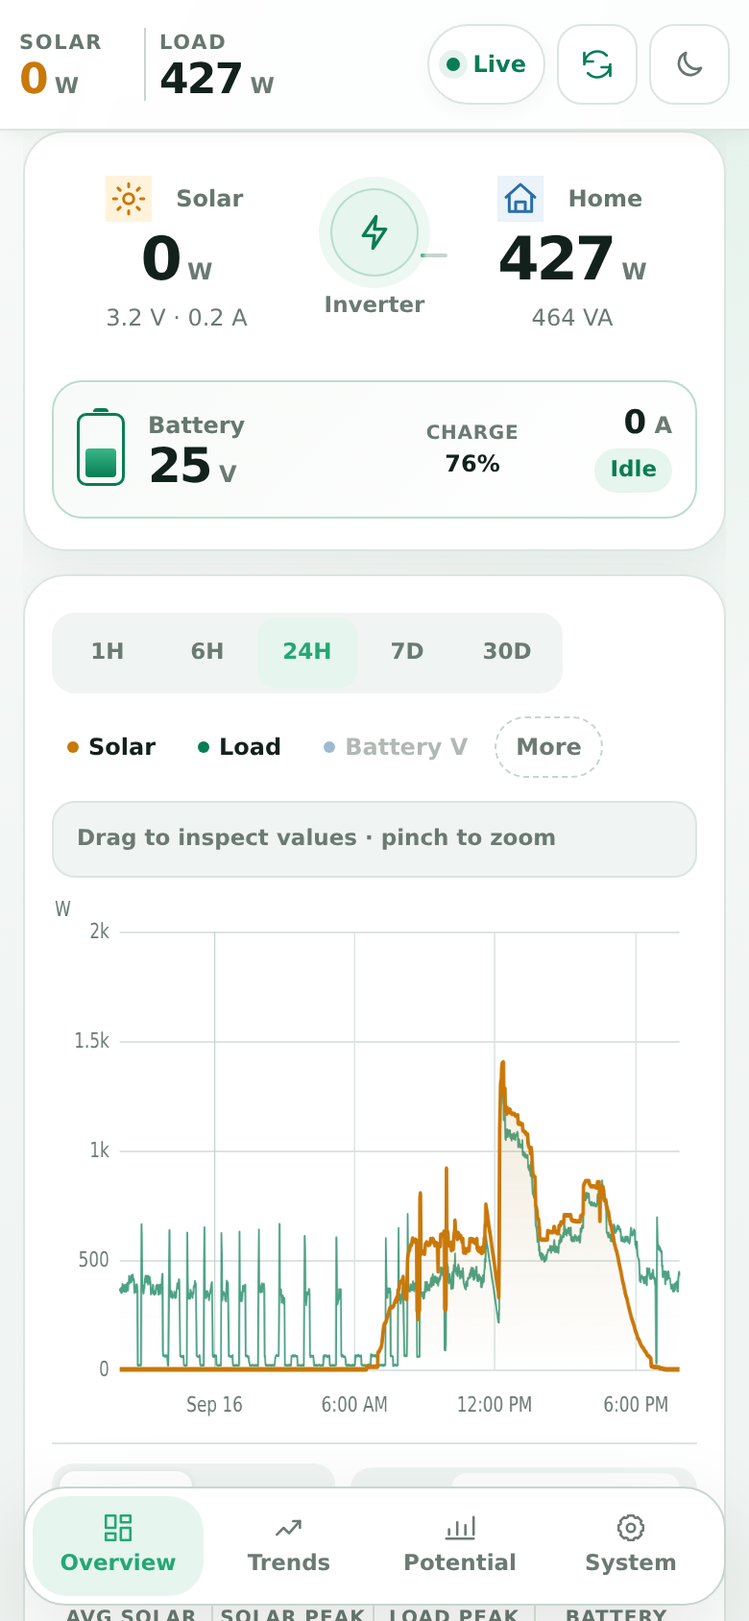
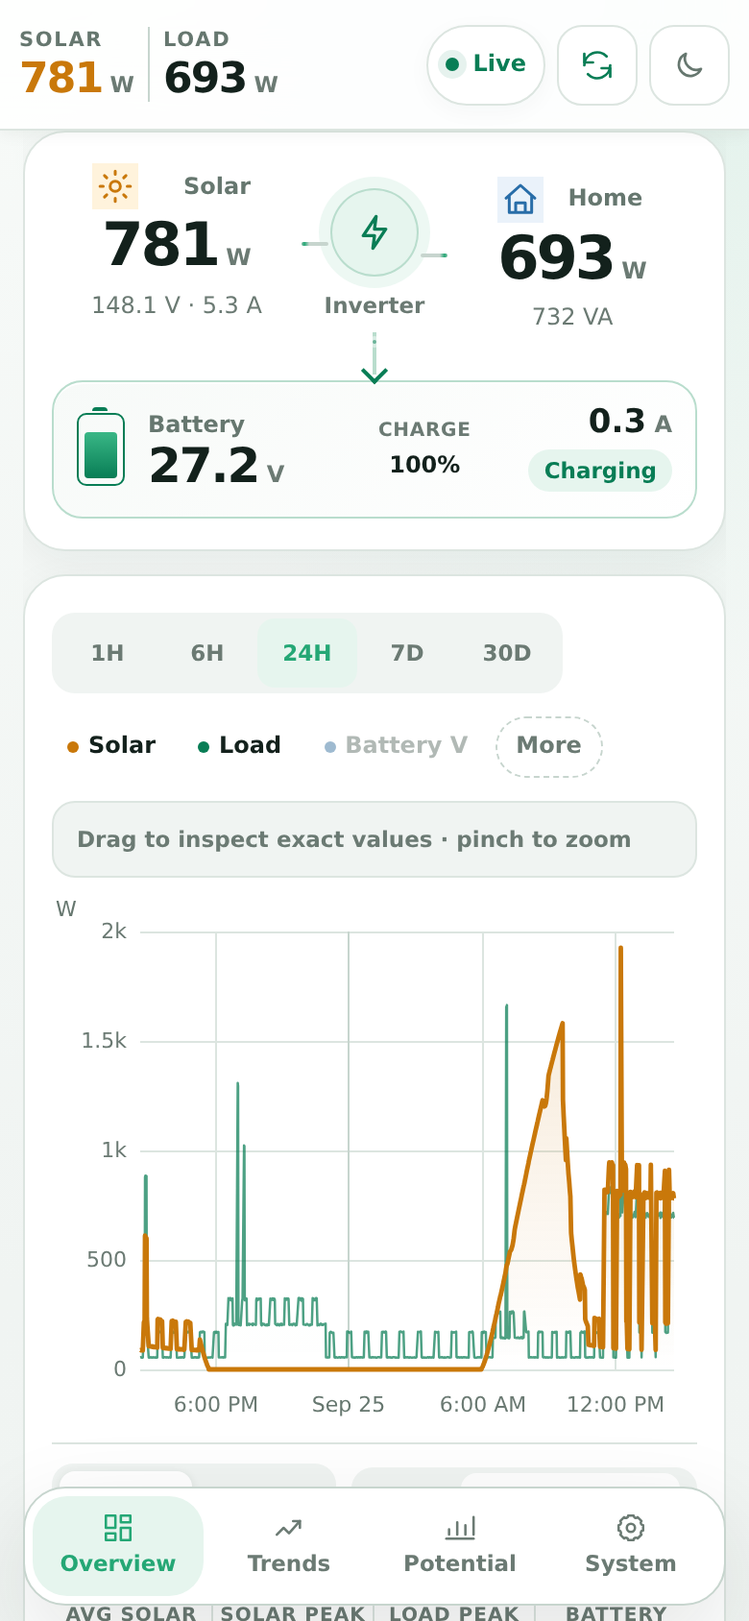
Lead the README with a demo anyone can run
A reader arriving from GitHub could look at screenshots of one house and
read setup steps for hardware they do not have. The README now opens with
three commands that run the whole application against the simulator, and
the screenshots come from that same demo (said so beneath them), rendered
by tools/screenshot.py so they can be retaken after any UI change.

Also brought up to date: history as energy per day beyond 24 hours, the
serial link read from the config file, a named config file being
required, where the setup token is found, restarting after an update,
an "Engineering notes" section pointing reviewers at the choices worth
finding, the endpoint tables folded away, and a Development section with
the lint and screenshot commands CI and contributors use. The CI badge
and clone URL carry OWNER/REPO until the repository has its name.

diff --git a/README.md b/README.md
@@ -1,107 +1,139 @@
 # SUMRY HGX Solar Monitor
 
-A local-first monitor for a SUMRY HGX 4 kW 24 V inverter, running on a Raspberry Pi with no cloud account and no build step. It speaks a reverse-engineered serial protocol, tracks battery health by counting charge, and learns the array's solar potential from its own output.
+[![CI](https://github.com/OWNER/REPO/actions/workflows/ci.yml/badge.svg)](https://github.com/OWNER/REPO/actions/workflows/ci.yml)
+![Python 3.11+](https://img.shields.io/badge/python-3.11%2B-3776ab)
+![No build step](https://img.shields.io/badge/front%20end-no%20build%20step-087d55)
+[![License: MIT](https://img.shields.io/badge/license-MIT-lightgrey)](LICENSE)
+
+A local-first monitor for a SUMRY HGX 4 kW 24 V off-grid inverter, running on a Raspberry Pi. It speaks the inverter's reverse-engineered RS-232 protocol, keeps every reading in SQLite, tracks the battery bank by counting charge, and learns the solar array's real potential from its own output. No cloud account, no build step, three runtime dependencies.
 
 <p>
-  <img src="docs/screenshots/dashboard-phone.png" alt="Dashboard on a phone" width="300">
-  <img src="docs/screenshots/estimate-desktop.png" alt="Solar potential page on a desktop" width="620">
+  <img src="docs/screenshots/dashboard-phone.png" alt="The dashboard on a phone: live power flow and the last 24 hours" width="300">
+  <img src="docs/screenshots/dashboard-desktop-dark.png" alt="The dashboard on a desktop in the dark scheme" width="600">
 </p>
+<p>
+  <img src="docs/screenshots/estimate-desktop.png" alt="The solar potential page, showing midday output held back by a full battery" width="600">
+</p>
+
+*Screenshots are of the built-in simulator (`run.py --demo`), so they show made-up data rather than a real installation.*
+
+## Try it without the hardware
+
+```sh
+git clone https://github.com/OWNER/REPO.git solar-monitor && cd solar-monitor
+python3 -m venv .venv && .venv/bin/pip install -r requirements.txt
+.venv/bin/python run.py --demo
+```
+
+Then open <http://127.0.0.1:5000>. The admin portal is at `/admin`, login `demo` / `demo-password`.
+
+`--demo` runs the whole application against a simulated inverter with a week of generated history. The simulation sits below the serial transport, not beside it: `sim://` is a pyserial port, so the collector sends the same allow-listed queries and decodes the same CRC-checked frames it would from the real inverter, and a configuration written from the admin portal must pass the same write gate before the simulated charger follows it. The model behind it is physical rather than recorded: sun position and clear-sky irradiance for the site, weather seeded per day, a household routine, and a 24 V lead-acid bank with a three-stage charger that curtails the panels once it is full.
 
 ## What it does
 
-- **Live power flow.** PV, battery, load and utility every 30 seconds, plus the inverter's output stage, bus voltage, temperatures and fans.
-- **History charts.** One hour to thirty days on a canvas chart. The API caps a response at a configurable point count, and the chart thins rows to its own pixel width keeping every column's extremes, so the drawn peaks are the real peaks and agree with the summary tiles.
-- **Battery bank health.** State of charge by counting charge, re-anchored at full (plateau held at a trickle after a recent absorption) and at rest (C/50 with no charge current). Each full-to-rest stretch measures the bank's effective capacity, which replaces the nameplate. Pre-dawn voltage, absorption time and tail current are shown per day as recovery gauges.
-- **Time to the low-voltage cutoff.** Hours left at the recent draw, down to the inverter's configured cutoff rather than to empty, with a warning when no utility is there to fall back on.
-- **Solar potential.** Sun position for the site, clear-sky irradiance, Open-Meteo cloud cover, and transposition onto one or two roof faces. The level is learned per band of sun elevation from the array's own unconstrained output. The page shows the shortfall against what was captured and the losses a rewiring would recover.
-- **Utility bypass detection.** The frame carries no utility current, so mains use is derived from the transfer relay (the inverter's own output collapses while the load stays) and from the power balance.
-- **Admin portal.** Password plus optional PIN. Serial diagnostics, retention, runtime settings, estimator inputs, audit log, exports, and Raspberry Pi controls through a scoped sudo helper.
-- **Gated inverter writes.** Off by default. A write is the inverter's own configuration block sent back with only allow-listed fields changed, then read back. Nothing is reported as applied on the strength of having been sent.
-- **Change proposals.** `python -m solar_monitor.propose` queues an intent without touching the port. It is released by an admin, or by a policy that can only narrow what the protocol already allows.
+- **Live power flow.** PV, battery, load and utility every 30 seconds, with the inverter's output stage, bus voltage, temperatures and fans.
+- **History.** One hour to a day as a canvas chart that you can read, pan and zoom; a week or a month as energy per day. Thinning keeps every column's extremes, so the drawn peaks are the real peaks and agree with the summary tiles.
+- **Battery bank health.** State of charge by counting charge, re-anchored when the bank is full (a plateau held at a trickle after a real absorption) and when it rests (under C/50 with no charge current). Each full-to-rest stretch measures the bank's effective capacity, which replaces the nameplate. Pre-dawn voltage, absorption time and tail current are tracked per day as recovery gauges.
+- **Time to the low-voltage cutoff.** Hours left at the recent draw, down to the inverter's configured cutoff rather than to empty, with a warning when there is no utility to fall back on.
+- **Solar potential.** Sun position for the site, clear-sky irradiance, Open-Meteo cloud cover and transposition onto one or two roof faces. The level is learned per band of sun elevation from the array's own unconstrained output, so the page can show how much a full battery made the inverter leave on the roof, and what rewiring would recover.
+- **Utility detection.** The frame carries no trustworthy utility current, so mains use is derived from the transfer relay (the inverter's own output collapses while the load stays) and from the power balance.
+- **Admin portal.** Password plus an optional PIN. Serial diagnostics, retention, estimator inputs, an audit log, exports, and Raspberry Pi controls through a scoped sudo helper.
+- **Gated inverter writes.** Off by default. A write is the inverter's own configuration block sent back with only allow-listed fields changed, then read back; nothing is reported as applied on the strength of having been sent.
+- **Change proposals.** `python -m solar_monitor.propose` queues an intent without touching the port. An admin releases it, or a standing policy that can only narrow what the protocol already allows.
 
-## Architecture
+## How it works
 
 ```mermaid
 flowchart LR
   INV[SUMRY HGX<br>RS-232 on RJ45] <-->|9600 8N1| SER[serial_io<br>read allow-list<br>write gate]
-  SER <--> COL[Collector thread<br>polls every 30 s]
+  SIM[simulator<br>sim:// port] -.->|--demo| SER
+  SER <--> COL[collector thread<br>polls every 30 s]
   COL --> DB[(SQLite<br>raw frames, samples,<br>config snapshots, audit)]
-  DB --> API[Flask API]
+  DB --> API[Flask API<br>served by waitress]
   WX[Open-Meteo] --> API
-  API --> UI[Vanilla JS pages<br>canvas charts, no build step]
+  API --> UI[plain HTML, CSS and JS<br>canvas charts, no build step]
 ```
 
-A collector thread owns the serial port. Every cycle it sends the status query, stores the raw exchange, and stores the decoded sample. Every tenth cycle it reads the configuration block and stores a snapshot. Approved change requests are applied between polls by the same thread, so nothing else ever opens the port.
+One collector thread owns the serial port. Every cycle it sends the status query, stores the raw exchange and the decoded sample; every tenth cycle it also reads and stores the configuration block. Approved configuration changes are applied between polls by that same thread, and the admin portal's diagnostics wait on its lock, so nothing ever shares the line with a poll.
 
-Flask serves the JSON API and three pages: the dashboard, the solar potential page, and the admin portal. The pages are plain HTML, CSS and JavaScript loaded with `<script>` tags. Charts are drawn on canvas by `chart-core.js`, which both charting pages share.
+The protocol layer (`solar_monitor/protocols/sumry_8851.py`) validates every frame by its trailing CRC16/MODBUS checksum, decodes the 158-byte status frame and the 104-byte configuration frame through field tables, and exposes exactly two read queries. `serial_io.py` refuses any outbound frame that is not one of them, and sends writes through a separate gate.
 
-The protocol layer (`solar_monitor/protocols/sumry_8851.py`) validates every frame by its trailing CRC16/MODBUS checksum, decodes the 158-byte status frame and the 104-byte configuration frame, and exposes exactly two read queries. `serial_io.py` refuses any outbound frame that is not one of them, and routes writes through a separate gate that only permits the inverter's own last reply with allow-listed bytes changed.
+Flask serves a JSON API and three pages: the dashboard, the solar potential page and the admin portal. The pages are plain HTML, CSS and JavaScript loaded with `<script>` tags; `chart-core.js` is the one charting implementation both chart pages share. Asset URLs carry the file's modification time, so an update never pairs a new page with a stale cached script.
 
 ## Safety model
 
-Polling is read-only. Writes are opt-in, and a write must pass three gates before it reaches the port:
+Polling is read-only. Writes are opt-in, and every write passes three gates before it reaches the port:
 
-1. **Policy.** The admin writes switch defaults to off. A proposal from tooling is applied without a person only when every field it touches is inside the auto-apply policy, which is off and empty by default.
-2. **Writable-field table.** Each field has a byte offset, a scale and the range of the inverter's own menu. Anything outside the table, or outside its range, is refused before a frame is built.
-3. **Frame assertion.** `assert_write_frame` compares the outbound frame to the reply it was built from and rejects any byte that differs outside the writable masks, any wrong length or command, and any bad checksum.
+1. **Policy.** The writes switch defaults to off. A proposal from tooling is applied without a person only when every field it touches is inside the auto-apply policy, which is off and empty by default.
+2. **Writable-field table.** Each field has a byte offset, a scale and the range of the inverter's own menu. Anything outside the table or its range is refused before a frame is built, and a quantity never accepts a switch value.
+3. **Frame assertion.** `assert_write_frame` compares the outbound frame with the reply it was built from and rejects any byte that differs outside the writable masks, any wrong length or command, and any bad checksum.
 
-Writes are whole-block rewrites because the inverter has no per-register write. Command `0x0010` takes the entire 94-byte configuration block, so the safest possible frame is the block the inverter just sent, re-checksummed, with the requested bytes changed. After the write the collector reads the block again and reports each requested value as verified or mismatched. Every write, failure and switch flip is audited.
+Writes are whole-block rewrites because the inverter has no per-register write: command `0x0010` takes the entire 94-byte configuration block, so the safest possible frame is the block the inverter just sent, re-checksummed, with the requested bytes changed. The collector reads the block again afterwards and reports each requested value as verified or mismatched. Every write, failure and switch flip is audited.
 
-## Setup
+## Engineering notes
 
-- An RJ45 connector here is **not Ethernet**. Do not plug the inverter COMM port into the Pi's Ethernet port or a network switch.
-- Verify the inverter's RJ45 RS-232 pinout and signal levels before connecting. Use a true USB-to-RS232 adapter (not a TTL UART), cross TX and RX as required, and connect signal ground. Leave unused voltage pins unconnected.
-- Keep the inverter disconnected from mains and PV while assembling or changing the breakout wiring, following its manual and normal electrical-safety practice.
+Some choices a reviewer may want to find quickly:
+
+- **The register map is treated as a claim, not a fact.** Three labels in the community map turned out to be wrong for this firmware, and each was disproven against data: offset 76 read 0.00 across 4,489 frames while mains carried the house; the "battery type" bits decoded User-defined while the front panel read AGM; register 82 held 4 where the map promised a boolean. [docs/decisions.md](docs/decisions.md) records each rule the code follows and the evidence behind it, including a full front-panel dump that the decoder matches field for field.
+- **Retention is decided by a flag, not by searching prose.** Raw frames used to be classified by substrings of their decode notes. Every good frame's note contained "fault" or "not decoded", so no routine frame was ever pruned, while the raw frames of all six configuration writes were. `tests/test_retention.py` uses the decoder's real notes so that cannot pass again.
+- **The simulator is a pyserial URL handler** (`solar_monitor/serial_handlers/protocol_sim.py`). The tests run the real collector, transport and write path against it, and it encodes frames through the decoder's own layout table, so the two cannot drift apart.
+- **No bundler, and static checks stand in for a browser.** The Pi has no JavaScript engine, so the suite checks that every template supplies the DOM ids its script needs, that scripts balance their brackets and load in order, and, when Node.js is present, parses them with V8 and runs the charting unit tests. `tools/screenshot.py` drives headless Chromium over the DevTools protocol (standard library only) to render every page and report page errors.
+
+## Install on a Raspberry Pi
+
+Wiring first:
+
+- The inverter's RJ45 COMM port is **not Ethernet**. Do not plug it into the Pi's Ethernet port or a network switch.
+- Verify the port's RS-232 pinout and levels before connecting. Use a true USB-to-RS232 adapter (not a TTL UART), cross TX and RX as required, connect signal ground, and leave unused pins unconnected.
+- Keep the inverter disconnected from mains and PV while assembling or changing the wiring, following its manual.
+
+Then:
 
 ```sh
-sudo apt update
-sudo apt install -y python3-venv avahi-daemon nginx
-python3 -m venv .venv
-.venv/bin/pip install -r requirements.txt
-cp config.example.toml config.toml
-sudo usermod -aG dialout "$USER"   # then log out and in
+sudo apt update && sudo apt install -y python3-venv avahi-daemon nginx
+python3 -m venv .venv && .venv/bin/pip install -r requirements.txt
+cp config.example.toml config.toml        # then edit it
+sudo usermod -aG dialout "$USER"           # then log out and in
 ```
 
-Before running the collector, confirm the wiring with the diagnostic tool. `--listen-only` transmits nothing; without it the tool sends only the two allow-listed read queries.
+Confirm the wiring before running the collector. `--listen-only` transmits nothing; without it the tool sends only the two allow-listed read queries.
 
 ```sh
 .venv/bin/python diagnostic.py --listen-only --timeout 3
 .venv/bin/python diagnostic.py --json-log captures/hgx.jsonl
 ```
 
-For a no-port URL, set the hostname to `solar-monitor`, enable Avahi, and install `deploy/nginx-solar-monitor.conf` as the default nginx site (its header has the commands). `deploy/solar-monitor.service` assumes `/opt/solar-monitor`, a `solar-monitor` service account and `/var/lib/solar-monitor` for the database; adjust the paths for your installation.
-
-## Configuration
-
-`config.toml` is untracked. Copy `config.example.toml` and edit it.
-
-| Table | Keys |
-| --- | --- |
-| `[serial]` | `port` (`"auto"` picks the first USB adapter), `baudrate`, `timeout_seconds`, `poll_seconds`, `protocol` |
-| `[web]` | `host`, `port` |
-| `[storage]` | `database` (SQLite path; its directory also holds the secret and setup-token files) |
-| `[site]` | `latitude`, `longitude`, `array_capacity_watts`, `performance_ratio`, `tilt_degrees`, `azimuth_degrees`, `dual_slope`, `split_strings`, `array_description`, `module_count`, `module_watts`, `wiring`, `vmp_volts`, `voc_volts`, `imp_amps`, `isc_amps`, `inverter_model`, `charge_limit_amps`, `battery_description`, `battery_nominal_volts`, `battery_capacity_ah` |
-
-Every `[site]` key is optional. Without a location and array capacity the solar estimator is off and the potential page says so. `performance_ratio` is only the fallback until a week of readings exists; after that the level is learned. `dual_slope` splits the array across both faces of a pitched roof; `split_strings` says each series string straddles both faces.
-
-Settings changed in the admin portal (polling rate, retention, chart point cap, estimator inputs, writes switch, auto-apply policy) are stored in SQLite and take effect without a restart.
-
-## Run
+Run it:
 
 ```sh
 .venv/bin/python run.py --config config.toml          # serves with waitress
 .venv/bin/python run.py --config config.toml --dev    # Flask's development server
 .venv/bin/python run.py --no-collector                # web UI only, no serial polling
-.venv/bin/python run.py --demo                        # no hardware: a simulated inverter
 ```
 
-`--demo` runs everything against a simulated HGX reached through a pyserial `sim://` port, with a week of generated history, at `http://127.0.0.1:5000`. The admin portal login is `demo` / `demo-password`.
+Open `http://<pi>:5000`. On first start the log names the `setup-token` file beside the database; visit `/admin/setup?token=<its contents>` to create the admin account.
 
-Open `http://solar-monitor.local:5000`, or `http://solar-monitor.local` behind nginx. On first run visit `/admin/setup?token=...` with the token from the `setup-token` file next to the database to create the admin account.
+For a permanent install, `deploy/solar-monitor.service` runs it under systemd (it assumes `/opt/solar-monitor`, a `solar-monitor` service account and `/var/lib/solar-monitor`; adjust to taste), and `deploy/nginx-solar-monitor.conf` puts it on port 80 for every hostname the Pi answers to. After updating the code, restart the service: pages are cached by the running process.
 
-## Endpoints
+## Configuration
 
-Public:
+`config.toml` is untracked; copy `config.example.toml`. A file named with `--config` must exist; with no `--config`, `config.toml` is used if present.
+
+| Table | Keys |
+| --- | --- |
+| `[serial]` | `port` (`"auto"` picks the first USB adapter; `"sim://"` the simulator), `baudrate`, `timeout_seconds`, `poll_seconds`, `protocol` |
+| `[web]` | `host`, `port`, `expose_network_info` |
+| `[storage]` | `database` (SQLite path; its directory also holds the secret and setup-token files) |
+| `[site]` | `latitude`, `longitude`, `array_capacity_watts`, `performance_ratio`, `tilt_degrees`, `azimuth_degrees`, `dual_slope`, `split_strings`, `array_description`, `module_count`, `module_watts`, `wiring`, `vmp_volts`, `voc_volts`, `imp_amps`, `isc_amps`, `inverter_model`, `charge_limit_amps`, `battery_description`, `battery_nominal_volts`, `battery_capacity_ah` |
+
+Every `[site]` key is optional. Without a location and array capacity the estimator is off and the potential page says so. `performance_ratio` is only the fallback until a week of readings exists; after that the level is learned. `dual_slope` splits the array across both faces of a pitched roof; `split_strings` says each series string straddles both faces.
+
+The dashboard needs no login, so `/api/system` leaves out the hostname, address and Wi-Fi network unless `expose_network_info` is set; the admin portal shows them either way. The polling rate, retention windows, chart point cap, estimator inputs, writes switch and auto-apply policy are changed in the admin portal, stored in SQLite, and take effect without a restart. The serial link itself is read from the config file at startup.
+
+## API
+
+<details>
+<summary>Public endpoints</summary>
 
 | Method | Path | Returns |
 | --- | --- | --- |
@@ -109,29 +141,34 @@ Public:
 | GET | `/api/status` | latest sample with the derived utility state, latest configuration, last raw exchange, collector state |
 | POST | `/api/refresh` | one immediate poll, rate-limited to once per 5 seconds |
 | GET | `/api/history?hours=N&fields=a,b&points=N` | samples for the last N hours (max 720), optionally only the named columns |
-| GET | `/api/history/daily?days=N` | per-day averages, peaks and minimum battery voltage |
+| GET | `/api/history/daily?days=N` | per-day energy, averages, peaks and minimum battery voltage |
 | GET | `/api/history/faults?days=N` | rows with a non-empty faults field |
 | GET | `/api/battery` | charge count, anchors, measured capacity, runtime to cutoff, 14 days of health |
 | GET | `/api/estimate?hours=N` | modelled output for the window plus six hours ahead, calibration, scenarios |
-| GET | `/api/system` | Pi uptime, network, CPU temperature, throttling, eco mode |
-| GET | `/health` | process and collector health |
+| GET | `/api/system` | Pi uptime, CPU temperature, throttling, eco mode (and network, if exposed) |
+| GET | `/health` | process and collector health; 503 when the serial link has gone quiet |
 
-Admin (session required; `/admin/setup`, `/admin/login`, `/admin/pin-login` and `/admin/logout` manage the session):
+</details>
+
+<details>
+<summary>Admin endpoints (session required)</summary>
+
+`/admin/setup`, `/admin/login`, `/admin/pin-login` and `/admin/logout` manage the session.
 
 | Method | Path | Does |
 | --- | --- | --- |
 | GET | `/admin` | the portal |
-| GET | `/api/admin/overview` | ports, settings, storage counts, disk, system snapshot |
+| GET | `/api/admin/overview` | serial link, storage counts, disk, system snapshot |
 | GET, POST | `/api/admin/settings` | read or change runtime settings |
 | POST | `/api/admin/serial/listen`, `/api/admin/serial/probe` | passive capture, or one allow-listed status query |
 | GET | `/api/admin/frames?limit=N` | recent raw exchanges |
 | POST | `/api/admin/data/cleanup` | run retention now |
 | GET | `/api/admin/audit` | recent audit events |
 | GET, POST | `/api/admin/security` | PIN status; set or disable the PIN |
-| GET | `/api/admin/inverter` | writes switch, current configuration, writable fields, snapshots, proposals, policy |
+| GET | `/api/admin/inverter` | writes switch, current configuration, writable fields, configuration history, proposals, policy |
 | POST | `/api/admin/inverter/writes` | switch writes on or off |
 | POST | `/api/admin/inverter/settings` | write changed fields and read them back |
-| POST | `/api/admin/inverter/restore` | write an earlier snapshot back |
+| POST | `/api/admin/inverter/restore` | write an earlier configuration back |
 | POST | `/api/admin/inverter/requests/<id>/approve`, `.../reject` | decide a proposal |
 | POST | `/api/admin/inverter/auto-apply` | switch and edit the auto-apply policy |
 | GET, POST | `/api/admin/system/eco` | read or set the CPU governor |
@@ -139,63 +176,76 @@ Admin (session required; `/admin/setup`, `/admin/login`, `/admin/pin-login` and 
 | POST | `/api/admin/system/restart-service`, `/api/admin/system/reboot`, `/api/admin/system/update-check` | Pi controls |
 | GET | `/api/admin/export/frames.jsonl`, `/api/admin/export/samples.csv` | exports |
 
+</details>
+
 ## Raspberry Pi controls
 
-The portal's Raspberry Pi tab can toggle the CPU governor, restart the service, reboot, and scan or join Wi-Fi networks. All of these run through one helper, `deploy/pi-control.sh`, which never evaluates its arguments as shell and accepts only a fixed set of actions. A Wi-Fi passphrase reaches it on standard input rather than as an argument, because sudo logs every argument to the system journal. To enable them:
+The portal's Raspberry Pi tab can switch the CPU governor, restart the service, reboot, and scan or join Wi-Fi networks. All of these run through one helper, `deploy/pi-control.sh`, which never evaluates its arguments as shell and accepts only a fixed set of actions. A Wi-Fi passphrase reaches it on standard input rather than as an argument, because sudo logs every argument to the system journal. To enable them:
 
 1. Install the sudoers rule, adjusting the user and path: `sudo cp deploy/solar-monitor-sudoers.example /etc/sudoers.d/solar-monitor && sudo chmod 440 /etc/sudoers.d/solar-monitor && sudo visudo -c`. The rule grants root to whatever the script contains, so the script and every directory above it must be owned by root and not writable by the service account. A root-owned `/opt/solar-monitor` run by a separate user is fine; a checkout in the service user's home directory is not.
-2. Make sure the systemd unit does not set `NoNewPrivileges=true`; it blocks `sudo` regardless of sudoers. The shipped unit leaves it off.
+2. Make sure the systemd unit does not set `NoNewPrivileges=true`, which blocks `sudo` whatever sudoers says. The shipped unit leaves it off.
 3. Wi-Fi actions need NetworkManager (`nmcli`), the default on Raspberry Pi OS Bookworm and later.
 
 Without this setup the buttons return a clear error instead of hanging.
 
-## Tests
+## Development
 
 ```sh
-.venv/bin/python -m unittest discover -v
+.venv/bin/pip install -r requirements-dev.txt
+.venv/bin/python -m unittest discover -v        # the suite; no hardware needed
+.venv/bin/ruff check .                           # lint, as CI runs it
+node --test tests/js/*.test.js                   # charting unit tests, if Node.js is installed
 ```
 
-There is no browser or JavaScript engine on the Pi, so a mistake in a page script cannot surface at runtime the way a Python exception does. The suite compensates statically: every template must supply the DOM ids its script resolves at load time, scripts must have balanced brackets, and shared modules must load before their consumers.
+CI runs the suite on Python 3.11, 3.12 and 3.13 with Node available, and ruff as a blocking check.
 
-Node.js is optional and development-only. When it is present the suite also parses every script with V8 and runs the charting unit tests in `tests/js/`; when it is absent those two tests skip. To run the JavaScript tests alone: `node --test tests/js/*.test.js`. They use Node's built-in runner and add no dependencies.
+To look at the pages, run the demo and render them with headless Chromium:
+
+```sh
+.venv/bin/python run.py --demo &
+.venv/bin/python tools/screenshot.py --out docs/screenshots          # the README's three views
+.venv/bin/python tools/screenshot.py --all --login demo:demo-password --out /tmp/shots
+```
 
 ## Project layout
 
 ```text
-run.py                                 web server plus background collector
-diagnostic.py                          serial discovery and raw capture tool
-solar_monitor/config.py                config.toml loading
-solar_monitor/collector.py             polling thread, write path, applying approved proposals
-solar_monitor/serial_io.py             guarded 9600 8N1 transport, read allow-list, write gate
-solar_monitor/protocols/base.py        protocol interface
-solar_monitor/protocols/sumry_8851.py  HGX 0x8851 frames: CRC, decoders, writable fields
-solar_monitor/db.py                    SQLite schema, history, retention, proposals, audit
-solar_monitor/web.py                   Flask routes: public API and admin portal
-solar_monitor/battery.py               charge counting, anchors, capacity, runtime to cutoff
-solar_monitor/utility.py               utility presence and bypass from the power balance
-solar_monitor/solar_estimate.py        sun position, irradiance, roof geometry, learned efficiency
-solar_monitor/change_policy.py         auto-apply policy evaluation
-solar_monitor/propose.py               command-line change proposals
-solar_monitor/privileged.py            calls into the scoped sudo helper
-solar_monitor/system_info.py           Pi uptime, temperature, network, service state, updates
-solar_monitor/security.py              secret and setup-token files
-solar_monitor/templates/               dashboard, solar potential, admin and login pages
-solar_monitor/static/                  vanilla CSS and JavaScript; chart-core.js is shared
-tools/discover_registers.py            map unknown configuration registers from panel changes
-tools/screenshot.py                    render the pages with headless Chromium
-deploy/                                systemd unit, nginx site, sudo helper and rule, example config
-tests/                                 protocol safety, models, API and front-end static checks
-tests/js/                              Node unit tests for the charting maths
-docs/decisions.md                      why the code is the way it is
+run.py                                   web server plus background collector; --demo for the simulator
+diagnostic.py                            serial discovery and raw capture tool
+solar_monitor/config.py                  config.toml loading
+solar_monitor/collector.py               polling thread, write path, applying approved proposals
+solar_monitor/serial_io.py               guarded 9600 8N1 transport, read allow-list, write gate
+solar_monitor/protocols/base.py          protocol interface
+solar_monitor/protocols/sumry_8851.py    HGX 0x8851 frames: CRC, field tables, writable fields
+solar_monitor/db.py                      SQLite schema, history, retention, proposals, audit
+solar_monitor/web.py                     Flask routes: public API and admin portal
+solar_monitor/battery.py                 charge counting, anchors, capacity, runtime to cutoff
+solar_monitor/utility.py                 utility presence and bypass from the power balance
+solar_monitor/solar_estimate.py          sun position, irradiance, roof geometry, learned efficiency
+solar_monitor/simulator.py               the simulated inverter, household and bank behind --demo
+solar_monitor/serial_handlers/           the sim:// pyserial port
+solar_monitor/change_policy.py           auto-apply policy evaluation
+solar_monitor/propose.py                 command-line change proposals
+solar_monitor/privileged.py              calls into the scoped sudo helper
+solar_monitor/system_info.py             Pi uptime, temperature, network, service state, updates
+solar_monitor/security.py                secret and setup-token files
+solar_monitor/templates/                 dashboard, solar potential, admin and login pages
+solar_monitor/static/                    plain CSS and JavaScript; chart-core.js is shared
+tools/discover_registers.py              map unknown configuration registers from panel changes
+tools/screenshot.py                      render the pages with headless Chromium
+deploy/                                  systemd unit, nginx site, sudo helper and rule, example config
+tests/                                   protocol safety, models, simulator, API and front-end static checks
+tests/js/                                Node unit tests for the charting maths
+docs/decisions.md                        why the code is the way it is, with the evidence
 ```
-
-## Decisions
-
-The reasoning behind the non-obvious choices (why offset 76 is not utility current, why a rest anchor is C/50, why efficiency is an envelope per sun band, why writes are whole-block rewrites) is recorded with its evidence in [docs/decisions.md](docs/decisions.md).
 
 ## Status and known limitations
 
-- The `operating_state` and `faults` bytes of the status frame are not yet identified, so the fault history is empty until they are.
-- Utility current is not available from the frame. The utility watts and amps shown are derived from the power balance and are a lower bound, not a metered reading.
-- Battery type cannot be read or written over the protocol. The bits that appeared to hold it were disproven against the front panel, so it must be set on the inverter's own menu.
-- The models are calibrated on one installation: a 24 V Odyssey AGM bank, a 2.64 kW array split across a gable roof, and a desert site. The chemistry curve, anchor thresholds and ground albedo are constants in the code.
+- The status frame's `operating_state` and `faults` bytes are not identified yet, so the dashboard says "Not decoded" rather than claiming there are no faults.
+- Utility current is not in the frame. The utility watts and amps shown are derived from the power balance and are a lower bound, not a metered reading.
+- Battery type can be neither read nor written over the protocol; it is set on the inverter's own panel.
+- The models were calibrated on one installation: a 24 V AGM bank, a 2.64 kW array split across a gable roof, a desert site. The chemistry curve, anchor thresholds and ground albedo are constants in the code, and the voltage thresholds assume a 24 V bank.
+
+## License
+
+MIT; see [LICENSE](LICENSE).
